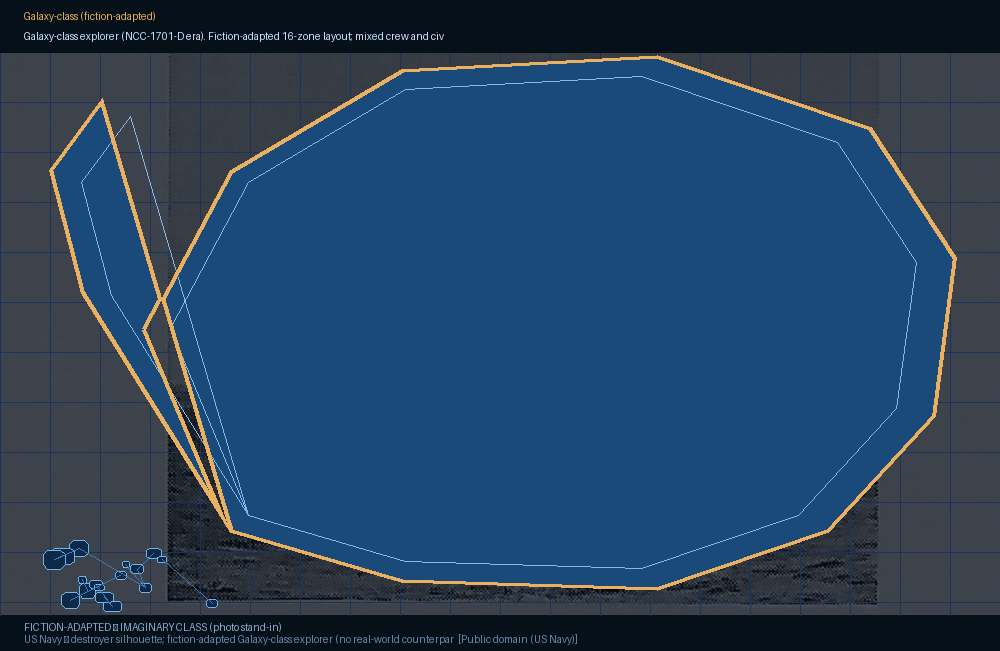
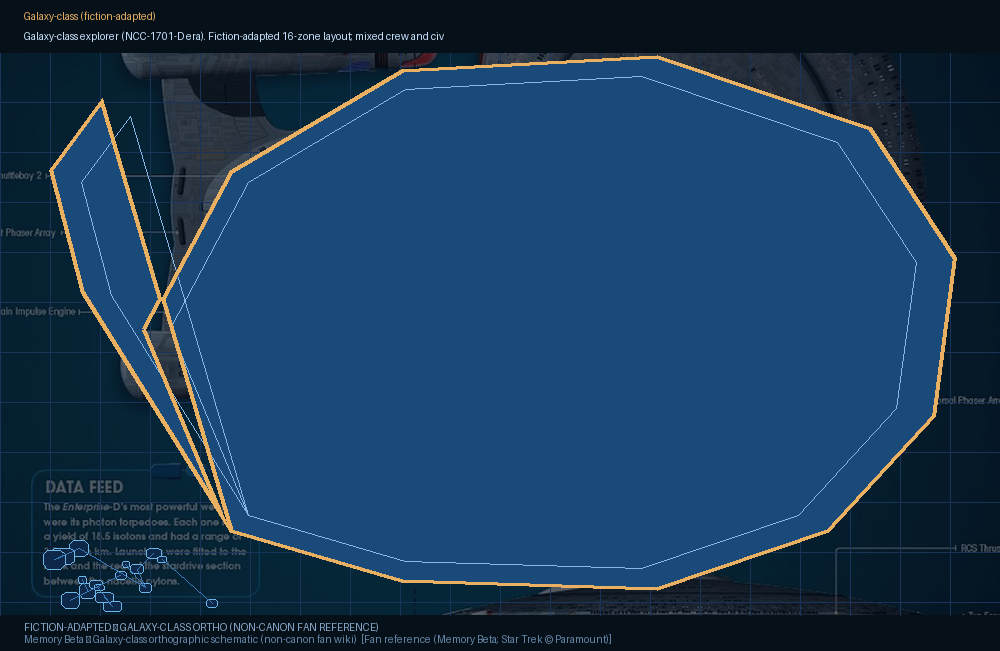
Use Memory Beta Galaxy-class ortho for enterprise_galaxy_tng plate
Download Galaxy_class_ortho.jpg from Memory Beta (Fandom), auto-trim
letterboxing, and composite as orthographic underlay behind simulation
hull outline. Document Paramount/fan-wiki attribution.

Changed region(s): [[0.0, 0.0614, 1.0, 1.0]]

diff --git a/scripts/deck_photo_plate.py b/scripts/deck_photo_plate.py
@@ -25,6 +25,30 @@ def catalog_entry(platform_id: str) -> dict[str, Any] | None:
     return (cat.get("platforms") or {}).get(platform_id)
 
 
+def _trim_dark_border(img: Any, *, threshold: int = 32) -> Any:
+    """Crop letterbox/black padding around orthographic schematics."""
+    gray = img.convert("L")
+    mask = gray.point(lambda p: 255 if p > threshold else 0)
+    bbox = mask.getbbox()
+    if bbox:
+        return img.crop(bbox)
+    return img
+
+
+def _apply_relative_crop(img: Any, crop: list[float]) -> Any:
+    """Crop by fractions [left, top, right, bottom] in 0..1."""
+    if len(crop) != 4:
+        return img
+    w, h = img.size
+    left = int(w * crop[0])
+    top = int(h * crop[1])
+    right = int(w * crop[2])
+    bottom = int(h * crop[3])
+    if right > left and bottom > top:
+        return img.crop((left, top, right, bottom))
+    return img
+
+
 def fetch_reference_photo(platform_id: str, pdir: str, *, force: bool = False) -> str | None:
     """Download reference_photo.jpg if catalog entry exists. Returns path or None."""
     entry = catalog_entry(platform_id)
@@ -61,6 +85,8 @@ def render_photo_plate(
     license_label: str,
     fiction: bool,
     photo_style: str = "profile",
+    auto_trim: bool = False,
+    crop_fraction: list[float] | None = None,
 ) -> bool:
     """Composite reference photo under vector hull / compartment overlay."""
     from PIL import Image, ImageDraw, ImageEnhance, ImageOps
@@ -88,13 +114,20 @@ def render_photo_plate(
     except OSError:
         return False
 
+    if photo_style == "ortho" or auto_trim:
+        photo = _trim_dark_border(photo)
+    if crop_fraction:
+        photo = _apply_relative_crop(photo, crop_fraction)
+
     # Fit photo to plot area (cover crop).
     plot_h = img_h - header - footer
     plot_w = img_w
     photo = ImageOps.fit(photo, (plot_w, plot_h), method=Image.Resampling.LANCZOS)
     if photo_style == "plan":
-        # Technical drawings read better upright and slightly boosted.
         photo = ImageEnhance.Contrast(photo).enhance(1.15)
+    elif photo_style == "ortho":
+        photo = ImageEnhance.Brightness(photo).enhance(0.62)
+        photo = ImageEnhance.Contrast(photo).enhance(1.2)
     else:
         photo = ImageEnhance.Brightness(photo).enhance(0.55)
         photo = ImageEnhance.Contrast(photo).enhance(1.05)
@@ -151,11 +184,12 @@ def render_photo_plate(
             pts = [to_px(p[0], p[1]) for p in geom["coordinates"][0]]
             draw.polygon(pts, fill=None, outline=gold, width=4)
 
-    banner = (
-        "FICTION-ADAPTED — IMAGINARY CLASS (photo stand-in)"
-        if fiction
-        else "CLASS REPRESENTATIVE — REFERENCE PHOTO UNDERLAY"
-    )
+    if fiction and photo_style == "ortho":
+        banner = "FICTION-ADAPTED — GALAXY-CLASS ORTHO (NON-CANON FAN REFERENCE)"
+    elif fiction:
+        banner = "FICTION-ADAPTED — IMAGINARY CLASS (photo stand-in)"
+    else:
+        banner = "CLASS REPRESENTATIVE — REFERENCE PHOTO UNDERLAY"
     draw.rectangle([(0, 0), (img_w, header)], fill="#061018")
     draw.text((24, 10), title[:70], fill=gold)
     draw.text((24, 30), subtitle[:90], fill=hull_edge)

diff --git a/scripts/precompute_deck_assets.py b/scripts/precompute_deck_assets.py
@@ -229,11 +229,14 @@ def precompute_platform(platform_id: str) -> None:
             license_label=photo_entry.get("license", ""),
             fiction=tier == "fiction_adapted" or bool(photo_entry.get("fiction_adapted")),
             photo_style=photo_entry.get("photo_style", "profile"),
+            auto_trim=bool(photo_entry.get("auto_trim")),
+            crop_fraction=photo_entry.get("crop_fraction"),
         )
         if plate_ok:
             manifest["background_plate"] = "reference_photo_composite"
             manifest["reference_photo"] = {
                 "wikimedia_title": photo_entry.get("wikimedia_title"),
+                "source_page": photo_entry.get("source_page"),
                 "license": photo_entry.get("license"),
                 "credit": photo_entry.get("credit"),
                 "local_file": photo_entry.get("local_file", "reference_photo.jpg"),

diff --git a/data/platforms/CLASS_PHOTO_ATTRIBUTION.md b/data/platforms/CLASS_PHOTO_ATTRIBUTION.md
@@ -20,7 +20,7 @@ Sources and URLs: `class_photo_catalog.json`
 | expedition_cruise_300 | Cruise ship side elevation | CC BY-SA 3.0 (Marcusroos) |
 | mega_cruise_5000 | Icon of the Seas | CC BY-SA 2.0 (Kahunapule Michael Johnson) |
 | enterprise_constitution_tos | USS Enterprise (CVN-65) | US Navy — public domain; **fiction-adapted** |
-| enterprise_galaxy_tng | DD silhouette | US Navy — public domain; **fiction-adapted** |
+| enterprise_galaxy_tng | [Galaxy-class ortho](https://memory-beta.fandom.com/wiki/File:Galaxy_class_ortho.jpg) | Memory Beta (Fandom) fan wiki; **fiction-adapted**; Star Trek © Paramount — not for commercial redistribution |
 
 Fiction-adapted platforms use real-world photos as **visual stand-ins** only;
 they are not official Star Trek blueprints.
